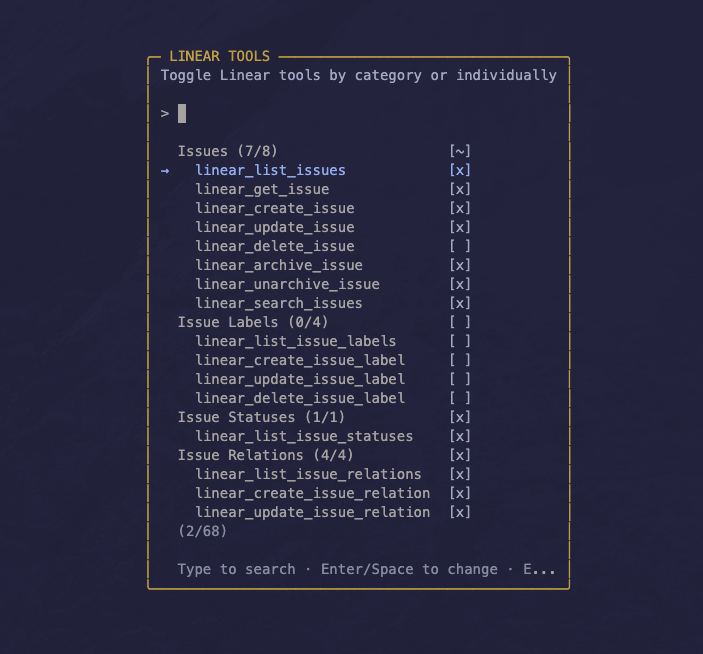
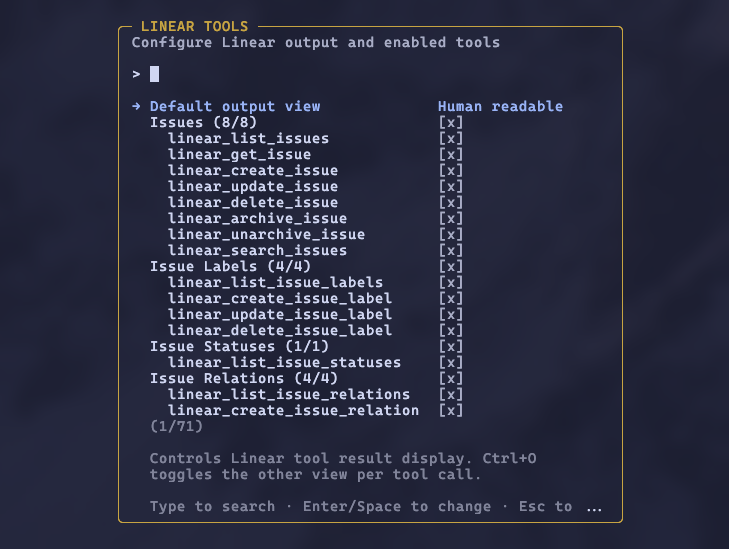
docs(pi-linear): showcase human-readable issue output

Changed region(s): [[0.1792, 0.031, 0.8065, 0.9599], [0.8364, 0.929, 0.8663, 0.9599], [0.1494, 0.929, 0.1792, 0.9599]]

diff --git a/packages/pi-linear/README.md b/packages/pi-linear/README.md
@@ -1,6 +1,18 @@
 # pi-linear
 
-![pi-linear screenshot](assets/screenshot.png)
+<p align="center">
+  <img src="assets/screenshot.png" alt="pi-linear settings overlay" />
+</p>
+
+<p align="center"><em>Configure Linear tools and output defaults from the settings overlay.</em></p>
+
+---
+
+<p align="center">
+  <img src="assets/linear_list_issues.png" alt="Human-readable Linear issue list" />
+</p>
+
+<p align="center"><em>Human-readable issue results keep screenshots clean while full JSON remains available with Ctrl+O.</em></p>
 
 Linear integration for [pi](https://pi.dev) with 55+ tools covering issues, projects, documents, initiatives, comments, relations, and more. Includes multi-workspace auth and a per-tool settings overlay.
 
@@ -46,7 +58,7 @@ Credentials are stored at `~/.pi/agent/state/extensions/linear/credentials.json`
 
 ## Tool settings
 
-Run `/linear-settings` to open an overlay where you can enable or disable tools by category or individually. Disabled tools are removed from the LLM's context entirely. Preferences persist across sessions.
+Run `/linear-settings` to open an overlay where you can choose the default output view and enable or disable tools by category or individually. Linear results default to a human-readable view, with full JSON available via `Ctrl+O`; you can flip the default to full JSON if you prefer. Disabled tools are removed from the LLM's context entirely. Preferences persist across sessions.
 
 ## Tools (55)
 